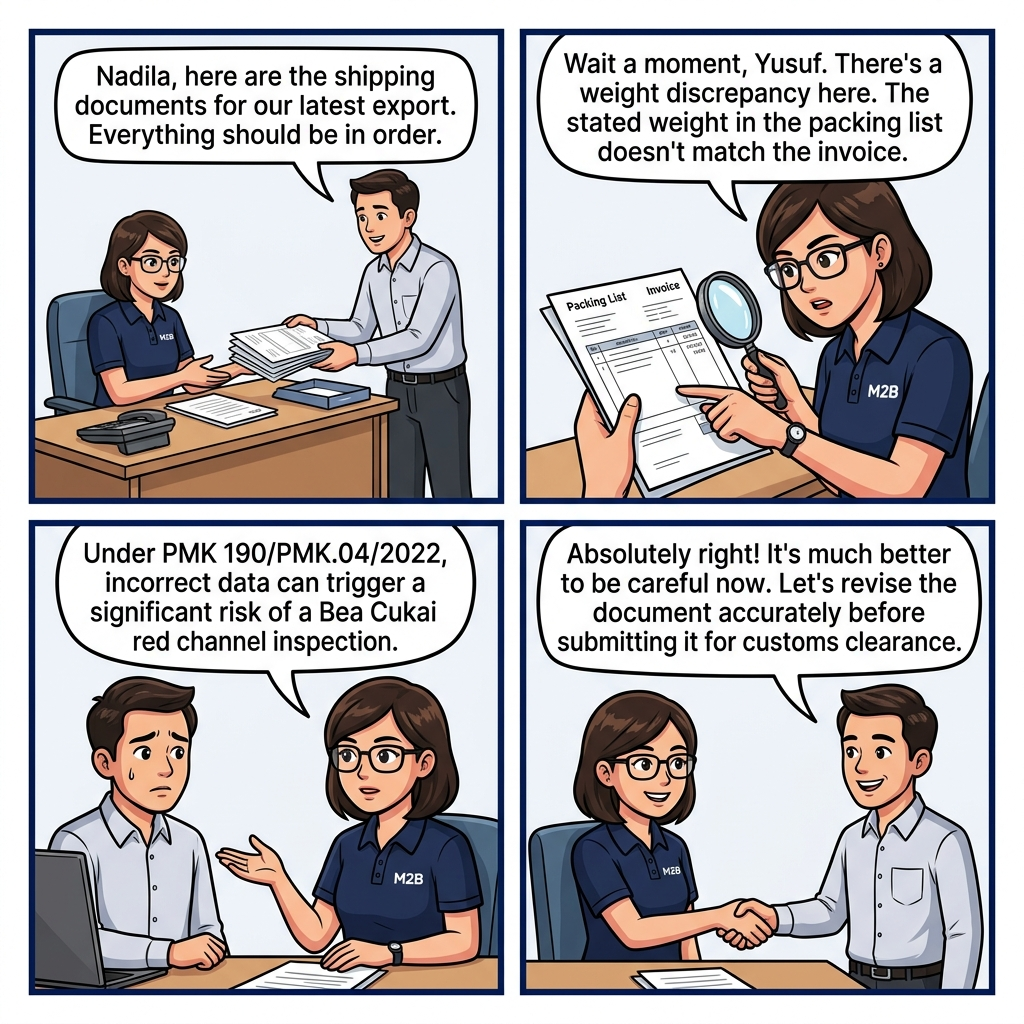
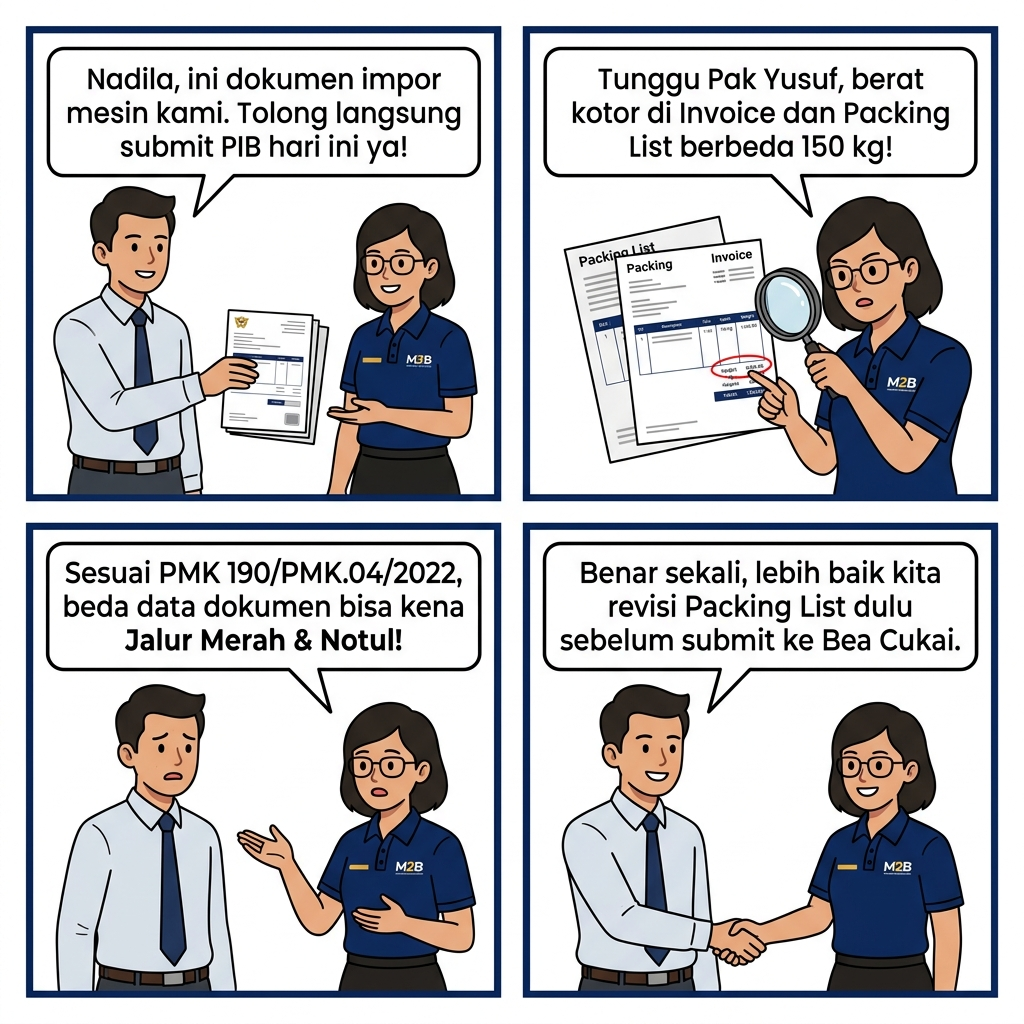
fix: Update Episode 01 comic image to Bahasa Indonesia

diff --git a/generate_episode.py b/generate_episode.py
@@ -1,0 +1,81 @@
+#!/usr/bin/env python3
+import sys
+import os
+import json
+import urllib.request
+
+# Load OPENAI_API_KEY from .env
+env_path = os.path.join(os.path.dirname(__file__), '.env')
+api_key = None
+if os.path.exists(env_path):
+    with open(env_path) as f:
+        for line in f:
+            if line.startswith('OPENAI_API_KEY='):
+                api_key = line.strip().split('=', 1)[1]
+
+if not api_key:
+    print("Error: OPENAI_API_KEY not found in .env")
+    sys.exit(1)
+
+def generate_dalle_image(prompt, output_file):
+    print(f"Generating DALL-E 3 image for: {output_file}...")
+    url = "https://api.openai.com/v1/images/generations"
+    payload = {
+        "model": "dall-e-3",
+        "prompt": prompt,
+        "n": 1,
+        "size": "1024x1024",
+        "quality": "standard",
+        "response_format": "url"
+    }
+    headers = {
+        "Authorization": f"Bearer {api_key}",
+        "Content-Type": "application/json"
+    }
+    req = urllib.request.Request(url, data=json.dumps(payload).encode('utf-8'), headers=headers)
+    try:
+        with urllib.request.urlopen(req) as resp:
+            res_data = json.loads(resp.read().decode('utf-8'))
+            img_url = res_data['data'][0]['url']
+            print(f"Image URL received. Downloading to {output_file}...")
+            urllib.request.urlretrieve(img_url, output_file)
+            print(f"Successfully saved image: {output_file}")
+            return True
+    except Exception as e:
+        print(f"DALL-E 3 Generation Error: {e}")
+        return False
+
+if __name__ == "__main__":
+    if len(sys.argv) < 2:
+        print("Usage: python3 generate_episode.py <episode_number>")
+        sys.exit(1)
+    
+    ep_num = int(sys.argv[1])
+    print(f"Starting auto-generation process for Episode {ep_num:02d}...")
+    
+    # Load JSON plan
+    plan_path = os.path.join(os.path.dirname(__file__), 'content_plan_30_hari.json')
+    with open(plan_path) as f:
+        plan = json.load(f)
+    
+    ep_data = next((item for item in plan if item["day"] == ep_num), None)
+    if not ep_data:
+        print(f"Error: Episode {ep_num} not found in content plan!")
+        sys.exit(1)
+        
+    print(f"Title: {ep_data['title']}")
+    print(f"Lead: {ep_data['lead_character']}")
+    print(f"Case: {ep_data['case']}")
+
+    img_prompt = (
+        f"Corporate 4-panel comic strip on clean white background with bold navy borders separating the 4 panels. "
+        f"Featuring Indonesian logistics characters: {ep_data['lead_character']} (M2B specialist in navy polo shirt) "
+        f"and Yusuf (businessman in formal shirt). "
+        f"Theme: {ep_data['title']}. Case: {ep_data['case']}. "
+        f"Panel 1: Problem discovery. Panel 2: Detailed document/cargo inspection. "
+        f"Panel 3: Discussion of customs regulations. Panel 4: Resolution & agreement. "
+        f"Clean vector comic style, vibrant colors, clear professional atmosphere."
+    )
+    
+    output_img = os.path.join(os.path.dirname(__file__), 'assets', f'comic-episode-{ep_num:02d}.png')
+    generate_dalle_image(img_prompt, output_img)
